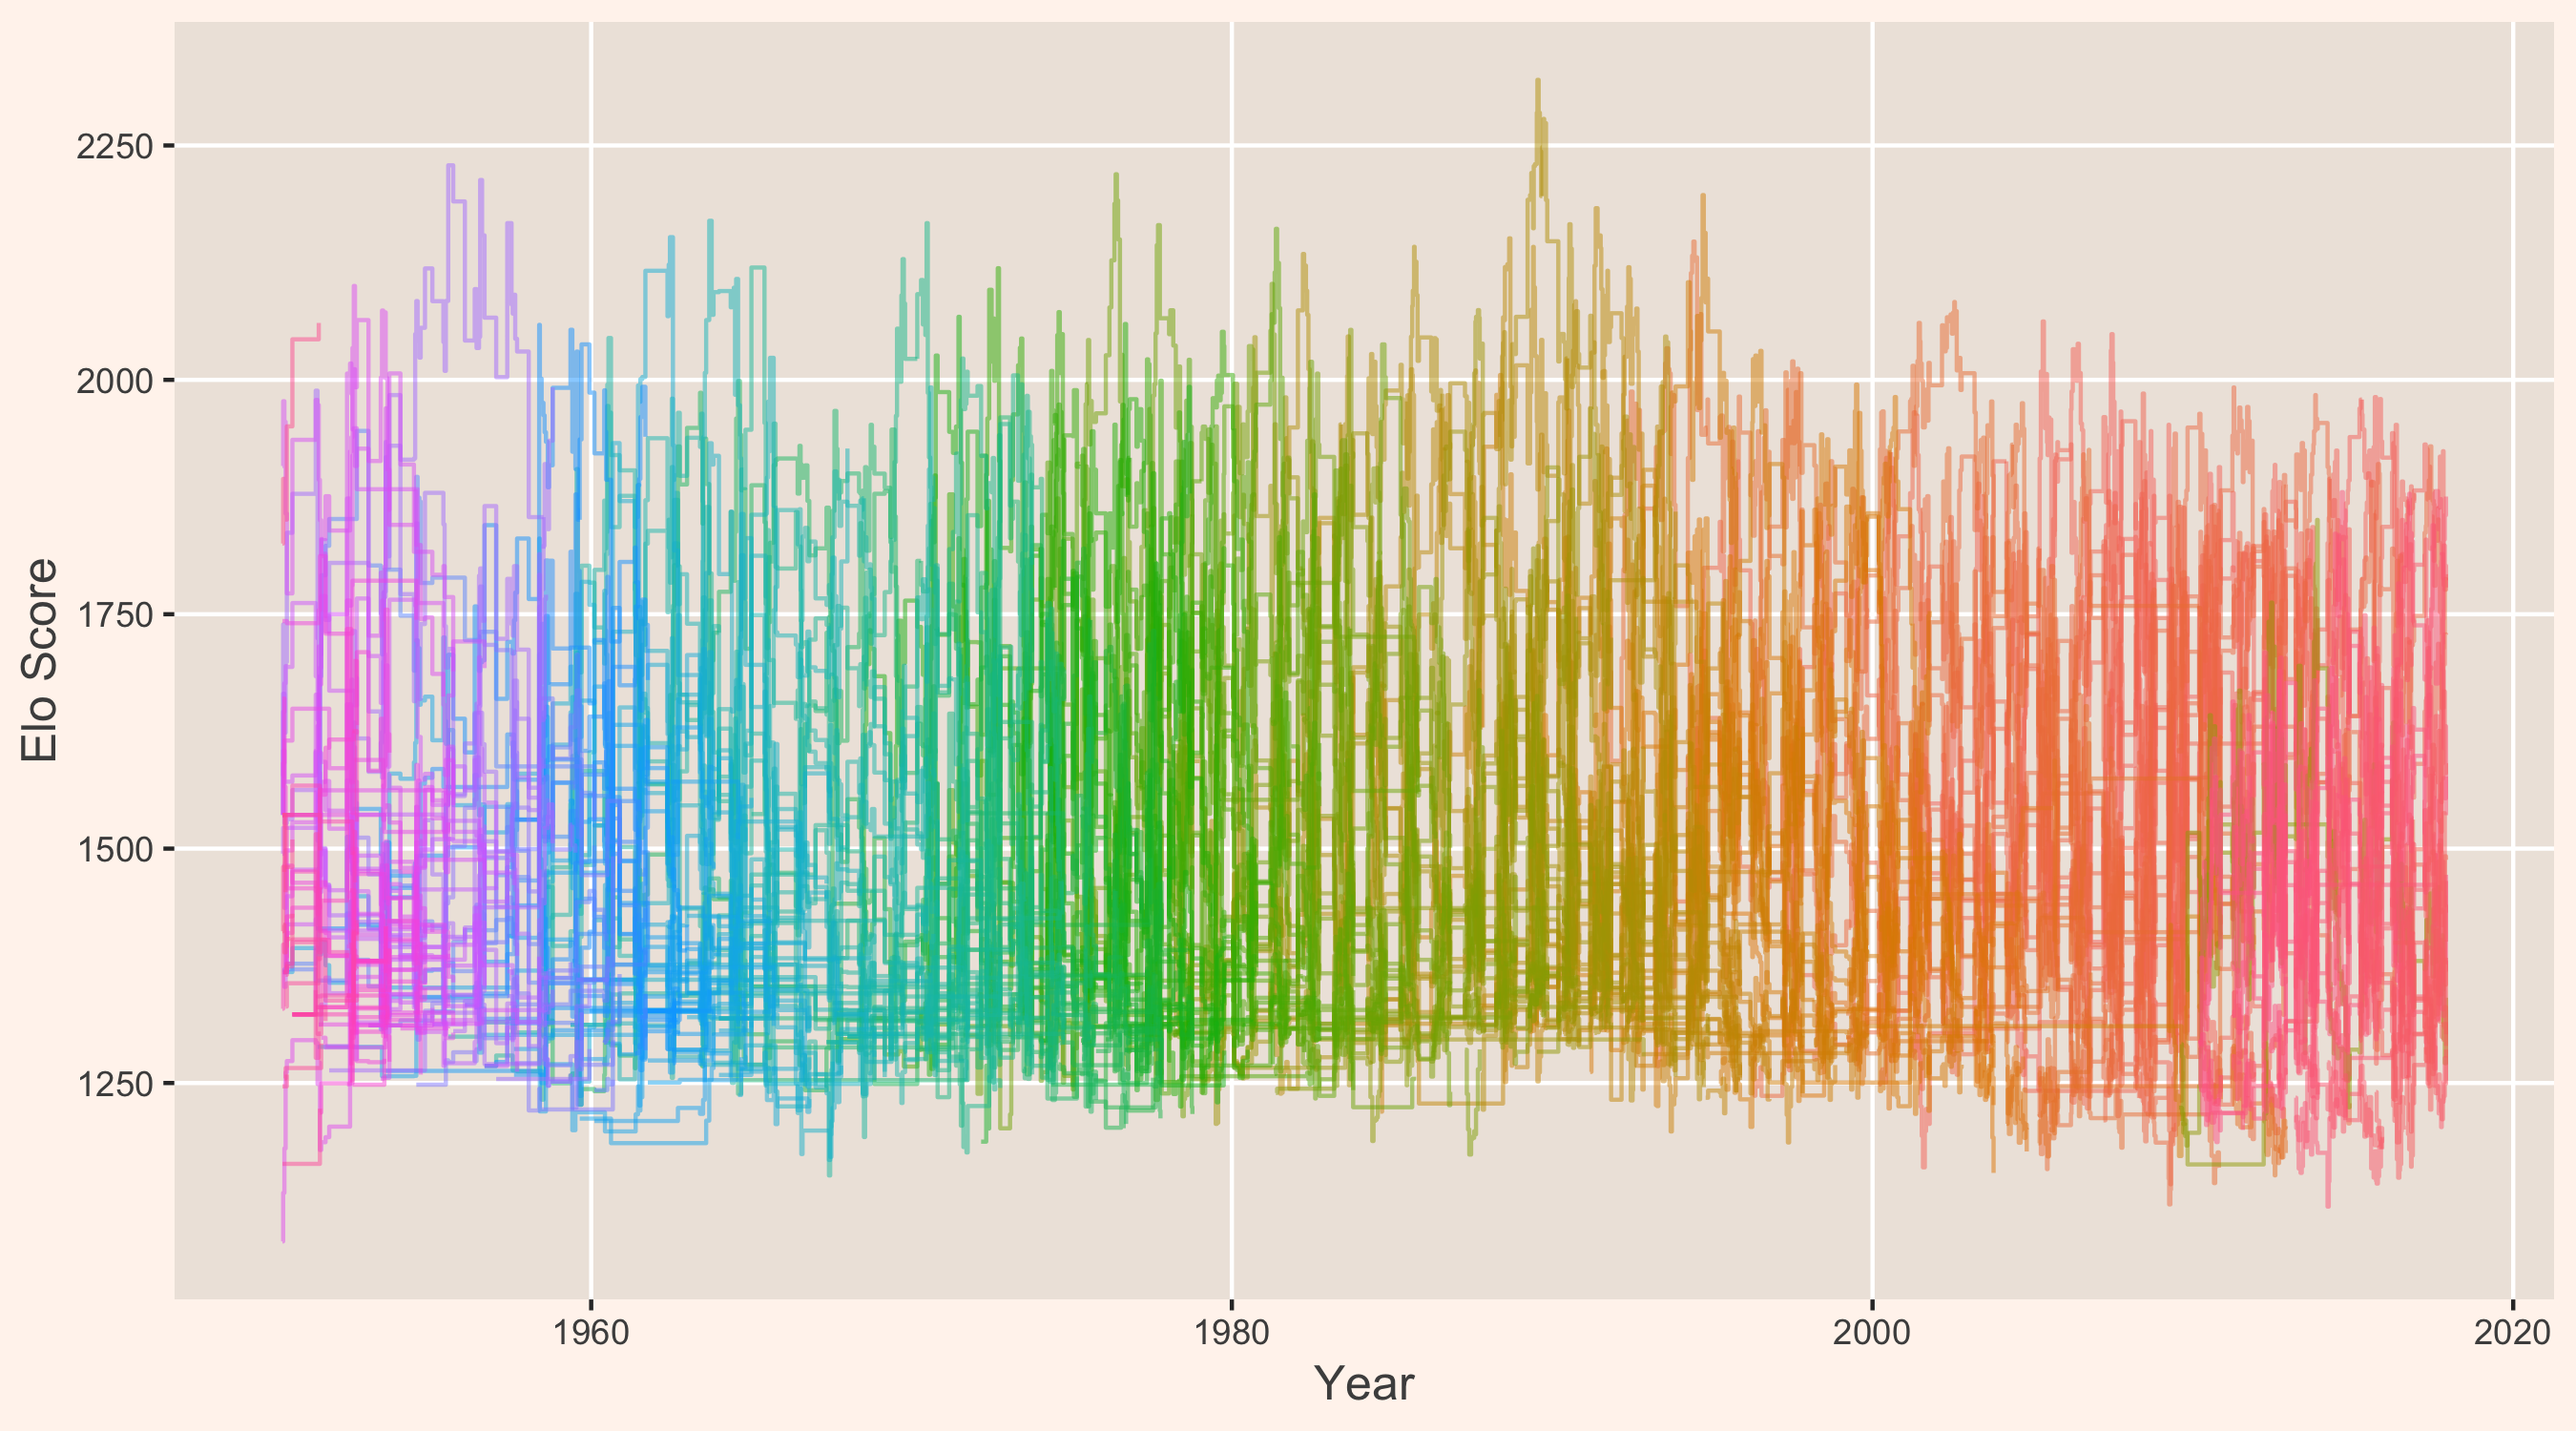
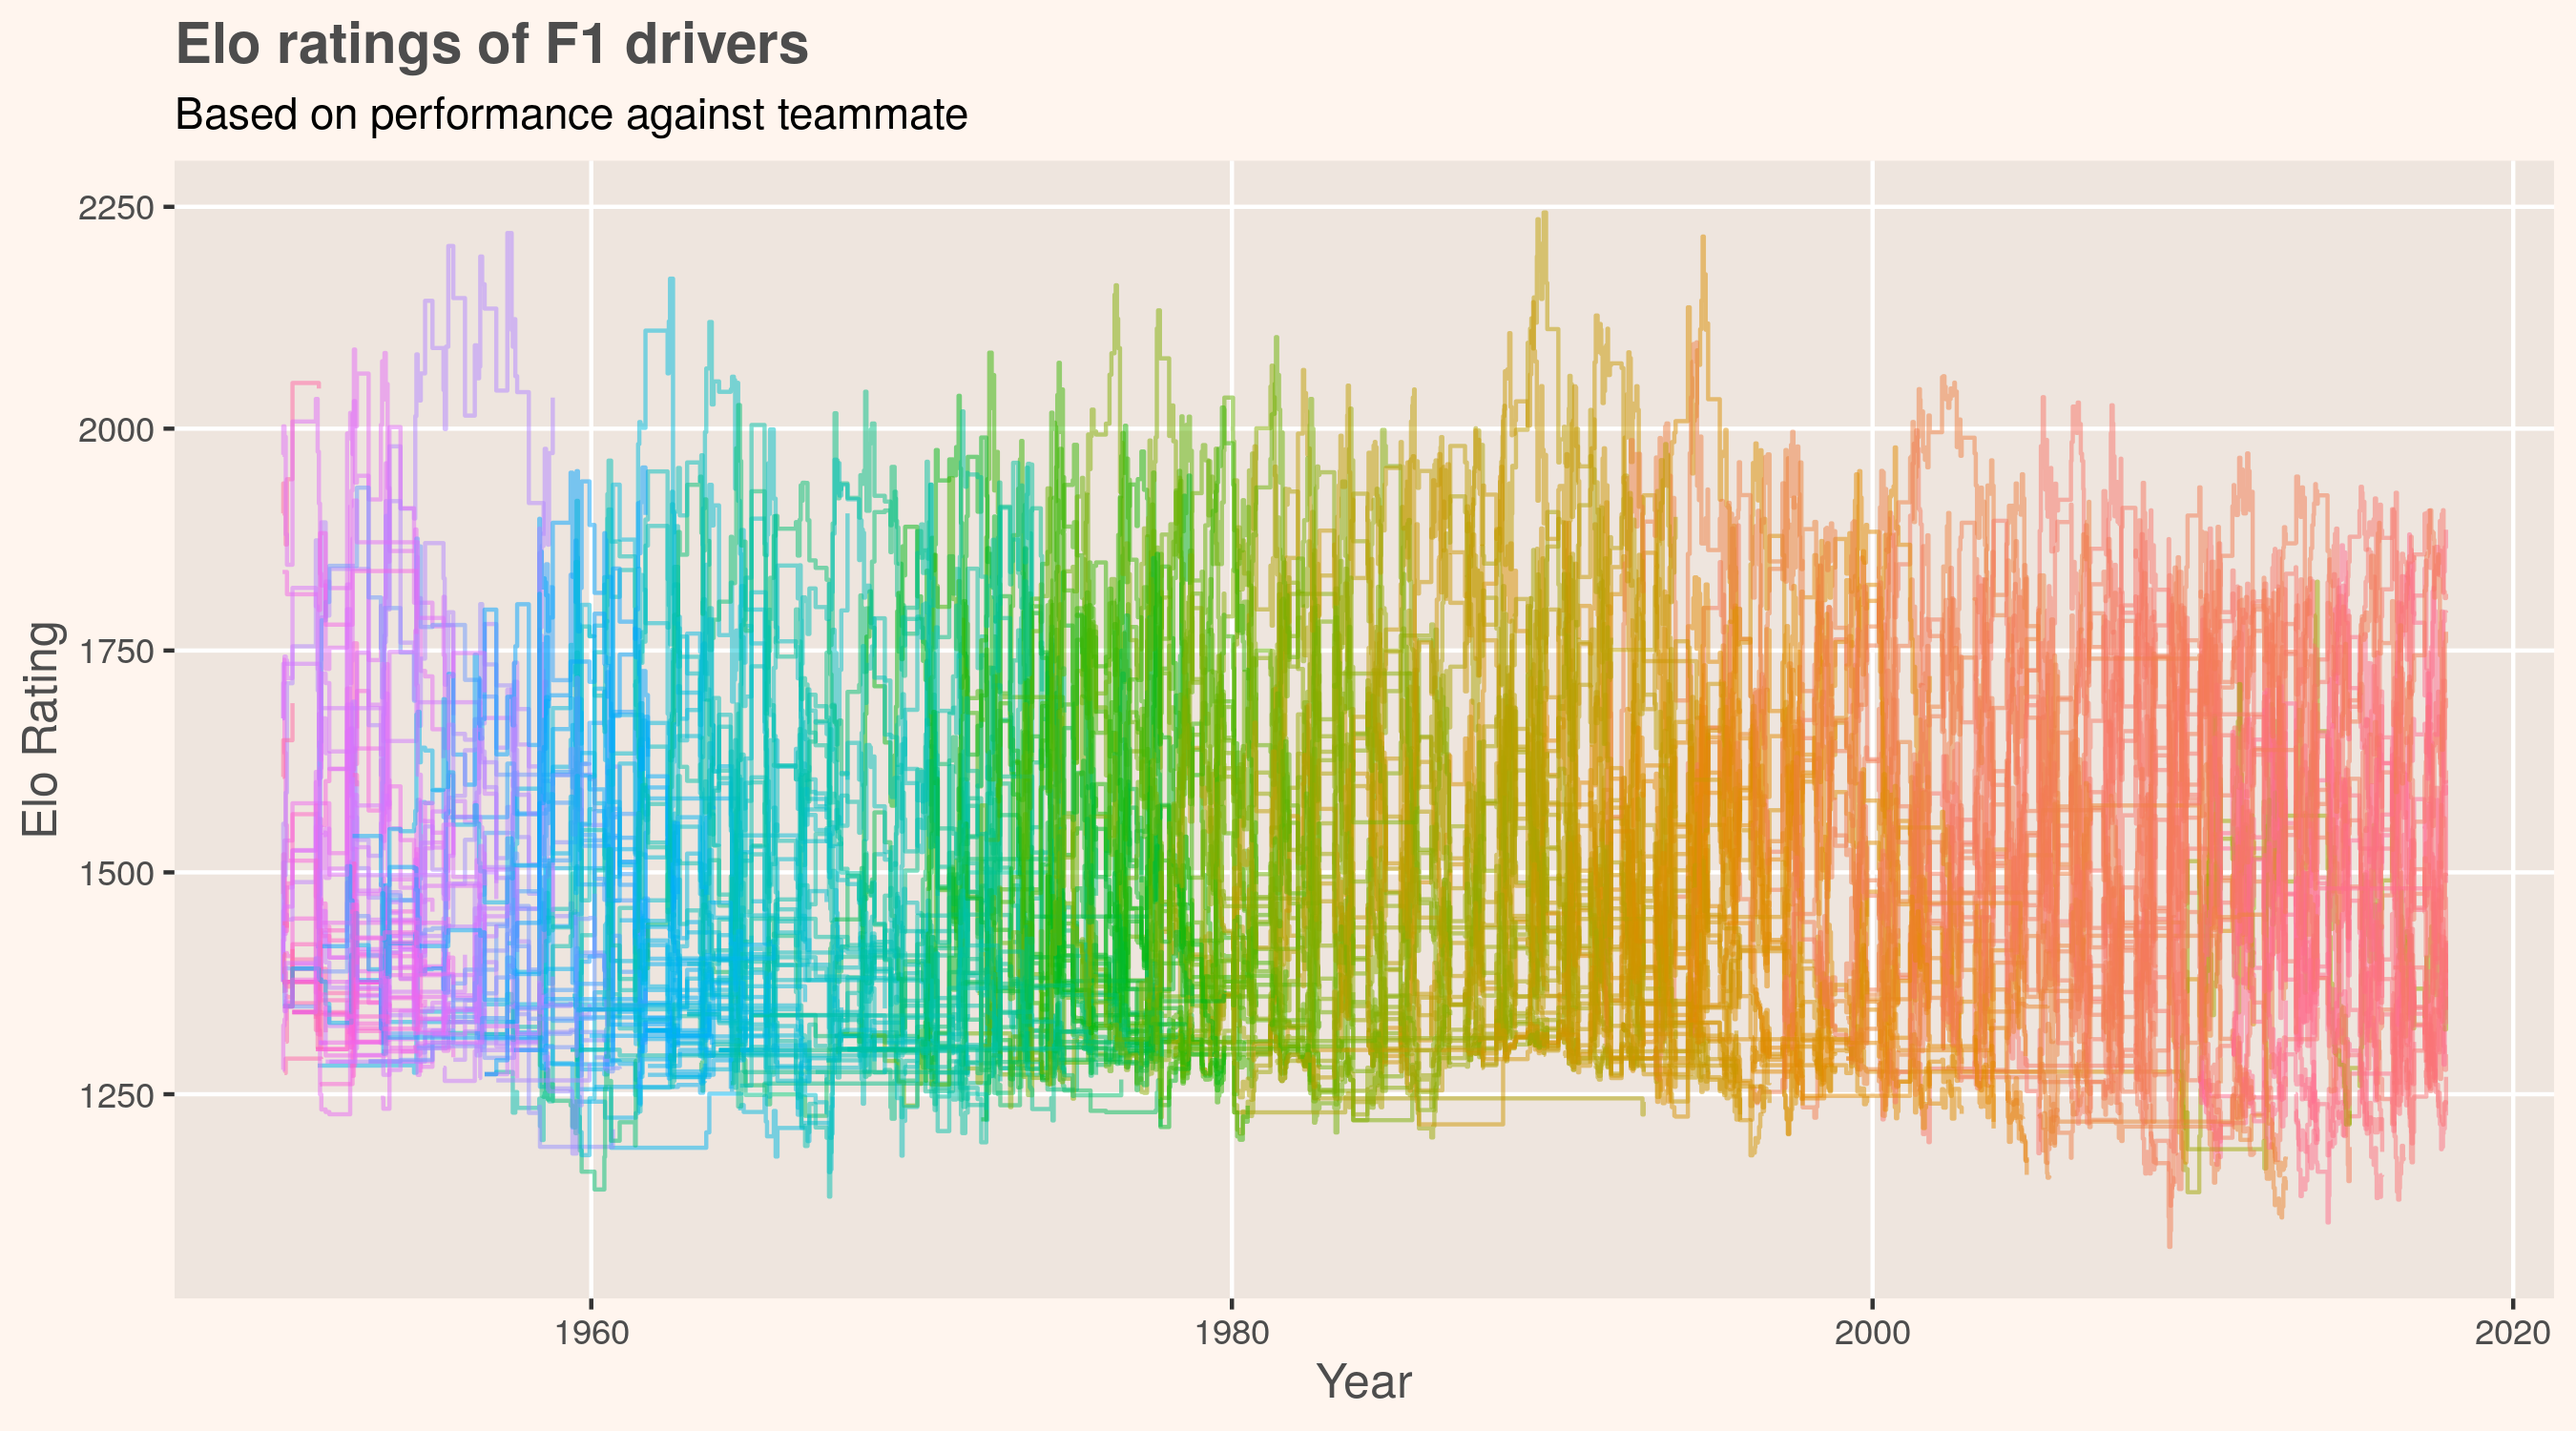
updated with teammate option; added readme

diff --git a/README.md b/README.md
@@ -1,1 +1,25 @@
-# F1-Elo
+# Applying Elo ratings to Formula one
+
+`F1_Elo.R`: script calculates Elo ratings for each drivers' performance against their teammate
+
+![](F1_Elo_rainbow.png)
+
+### Top drivers ranked by their best five years
+Position | Elo Rating | Driver
+------------ | -------------
+1 | 2044 | Fangio            
+2 | 1992 | Prost             
+3 | 1992 | Fagioli           
+4 | 1979 | Senna             
+5 | 1960 | Schumacher
+6 | 1898 | Farina            
+7 | 1866 | Hill              
+8 | 1865 | Clark             
+9 | 1860 | Lauda             
+10 | 1857 | Hamilton
+
+
+### Annual distribution of Elo ratings
+Reveals potential differences in (apparent) skill across the field. Some years are more uniform and others bimodal
+![](F1_Elo_ridges.png)
+
